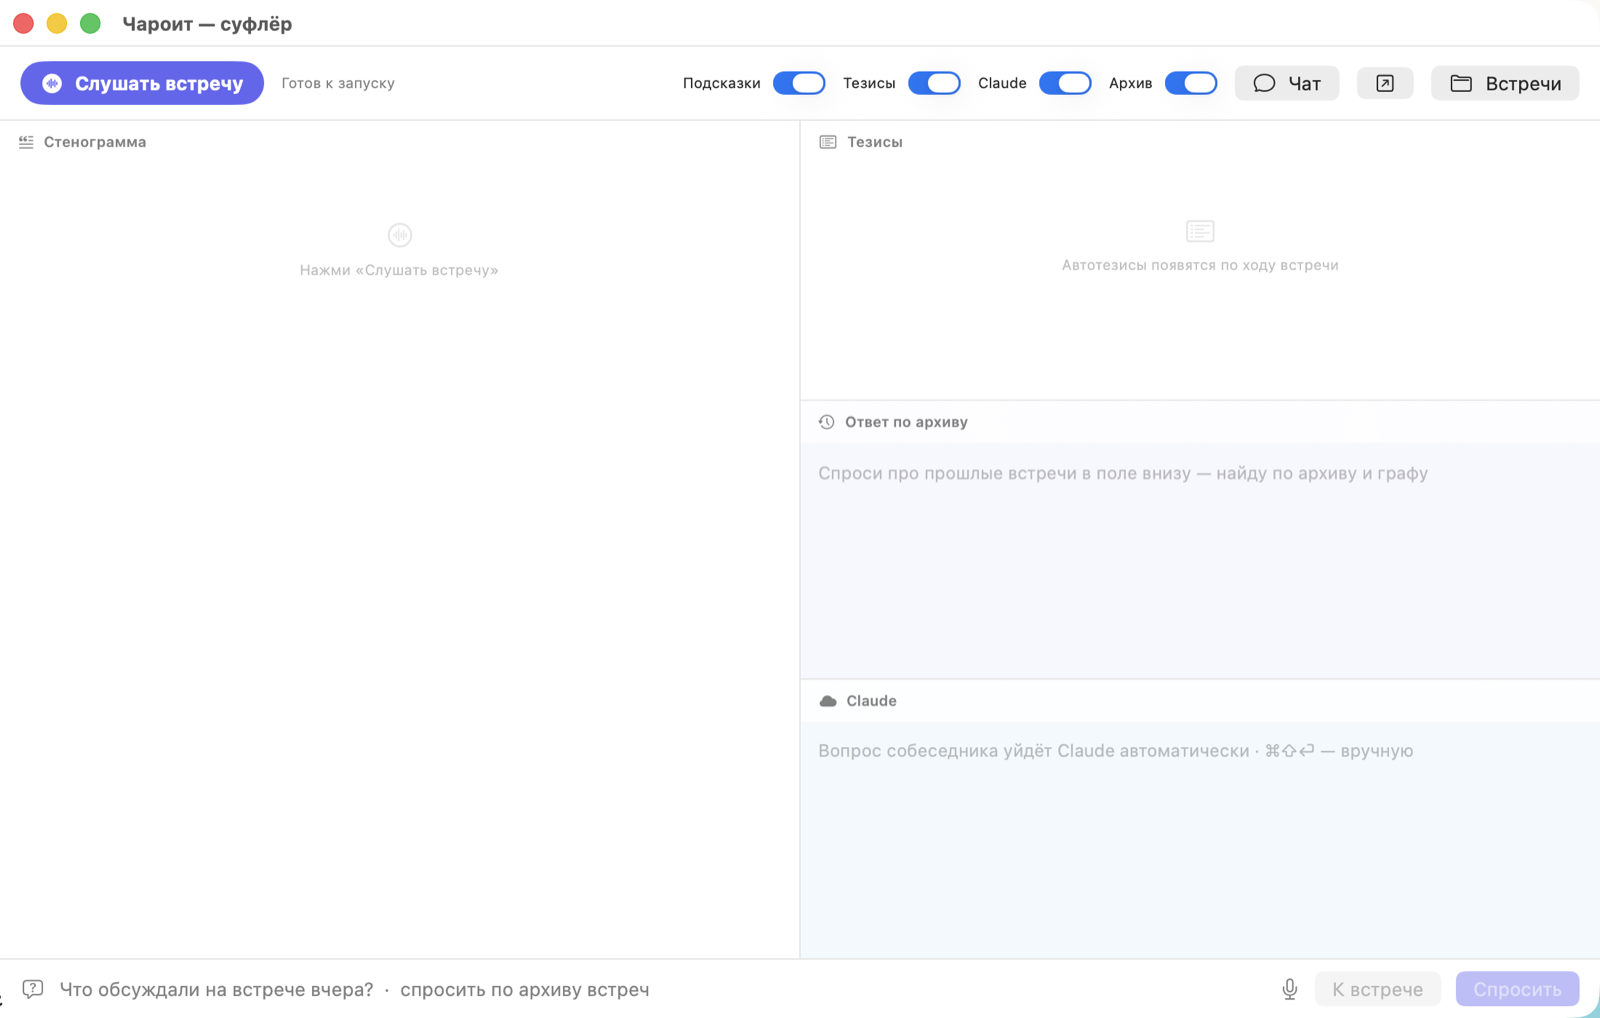
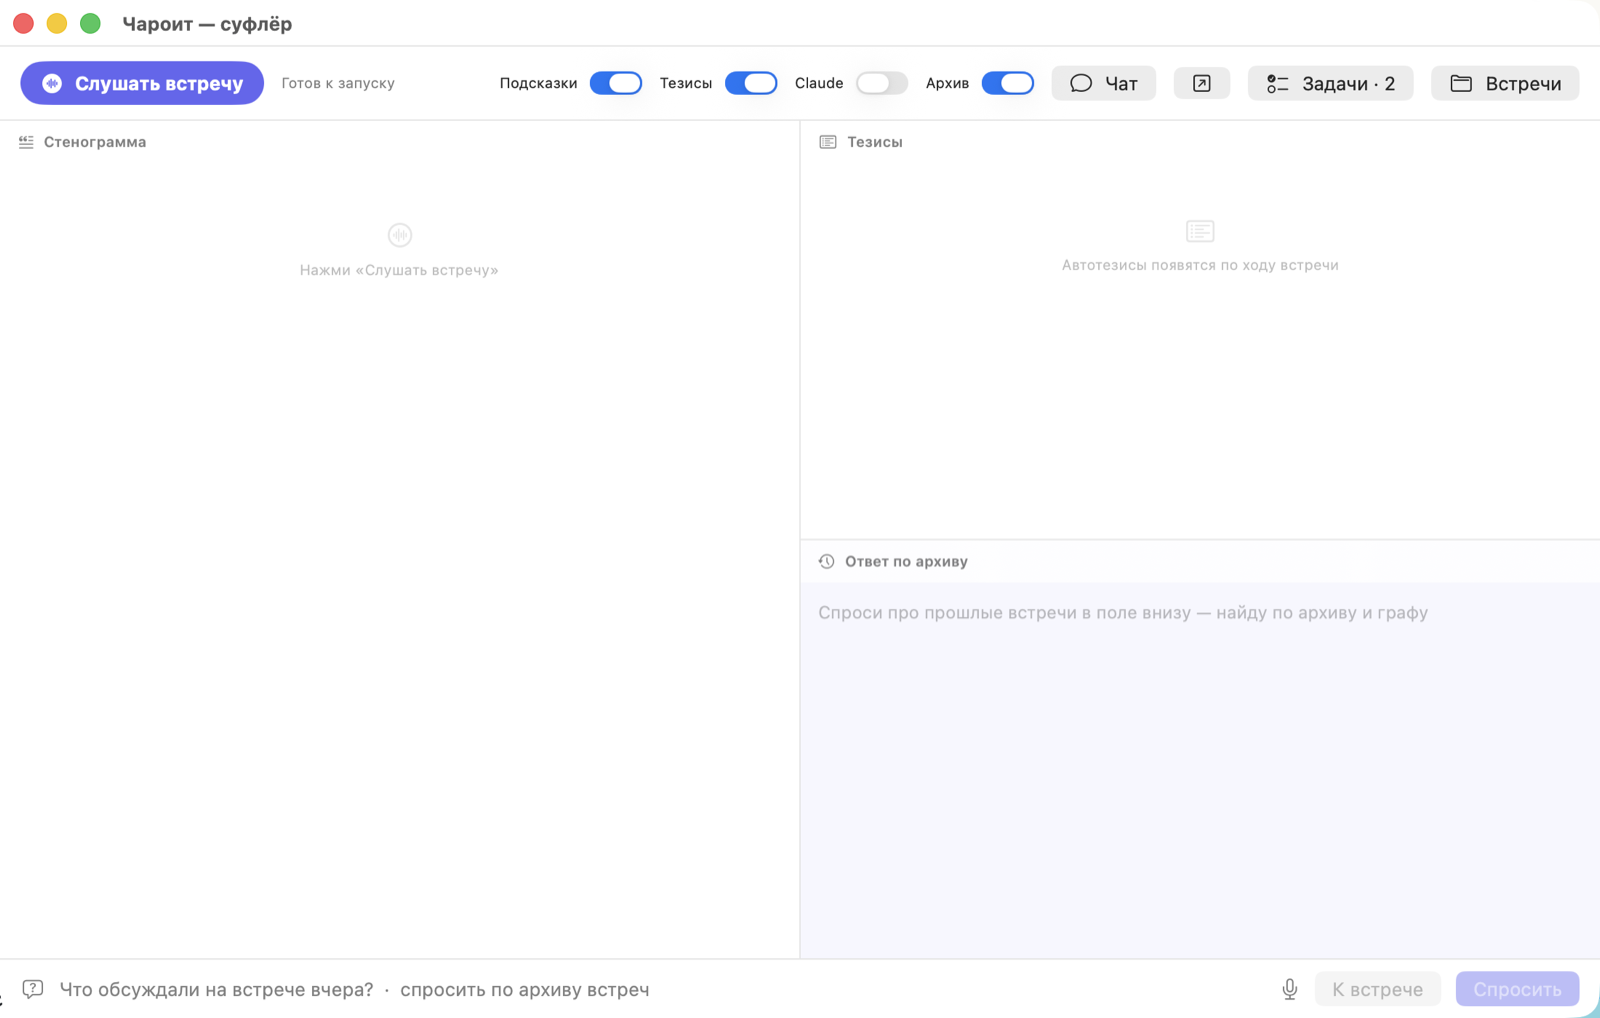
docs: fresh screenshots (main window + Tasks) and a stale claim fixed (#91)
- app-main.png retaken on v0.22.1: Tasks badge, cloud toggle off by
  default, archive answer pane — the old shot predated all of it
- new app-tasks.png: the Tasks window live on the demo graph (open
  items, per-meeting section, copy/rescan)
- app/README networking claim updated: localhost only — Ollama, the
  optional brain companion, the daemon

diff --git a/README.ru.md b/README.ru.md
@@ -6,6 +6,8 @@
 
 ![Приложение Charoite — стенограмма, тезисы, ответы по архиву](docs/img/app-main.png)
 
+![Задачи со встреч — все чекбоксы графа одним окном](docs/img/app-tasks.png)
+
 Чароит слушает встречи (микрофон + системный звук, без ботов в звонке), транскрибирует локально, различает говорящих, отвечает на вопросы прямо по ходу встречи, а после — обновляет Obsidian-граф знаний: люди, системы, решения и сквозные темы помнятся между встречами.
 
 ## Что умеет

diff --git a/app/README.md b/app/README.md
@@ -66,5 +66,5 @@ IDF (редкое слово запроса весит больше), покры
 `ollama pull bge-m3`). Если поднят опциональный brain-сервер (порт
 8100), поиск уходит в него; без обоих — чистая лексика.
 
-Приложение не открывает сетевых соединений, кроме вашего Ollama
-(и localhost-brain, если он поднят).
+Приложение не открывает сетевых соединений, кроме localhost: ваш
+Ollama, опциональный brain-компаньон (:8100) и демон суфлёра.

diff --git a/README.md b/README.md
@@ -10,6 +10,8 @@ Charoite listens to your meetings (microphone + system audio, no bots joining ca
 
 ![Charoite app — live transcript, theses, archive answers](docs/img/app-main.png)
 
+![Meeting tasks — every graph checkbox in one window](docs/img/app-tasks.png)
+
 ## Why Charoite
 
 - **100% local by default.** Audio, transcription, diarization, LLM summaries — all on your machine (Ollama + ONNX). No cloud, no telemetry, no accounts. The optional Claude layer is off unless you turn it on.
